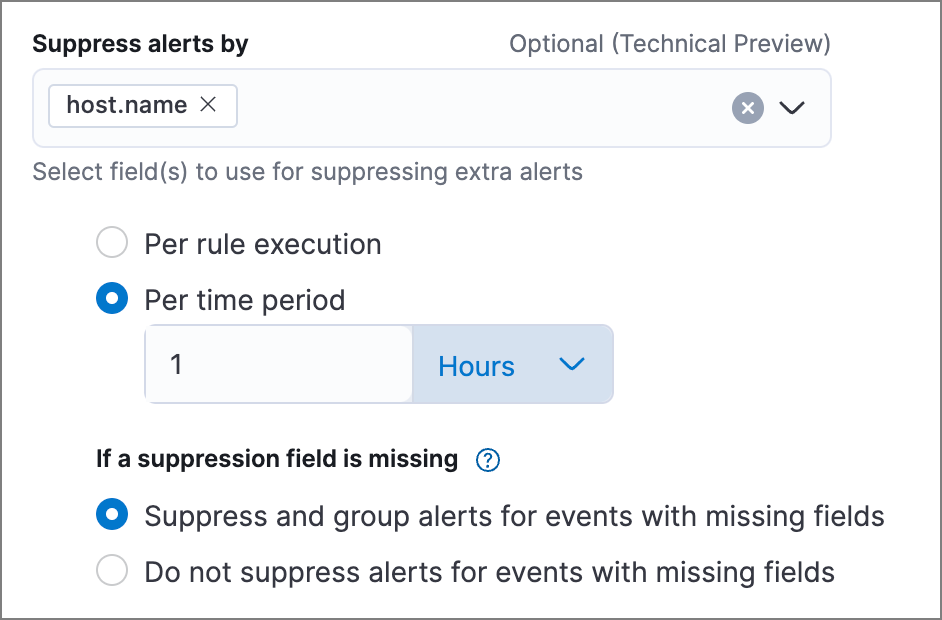
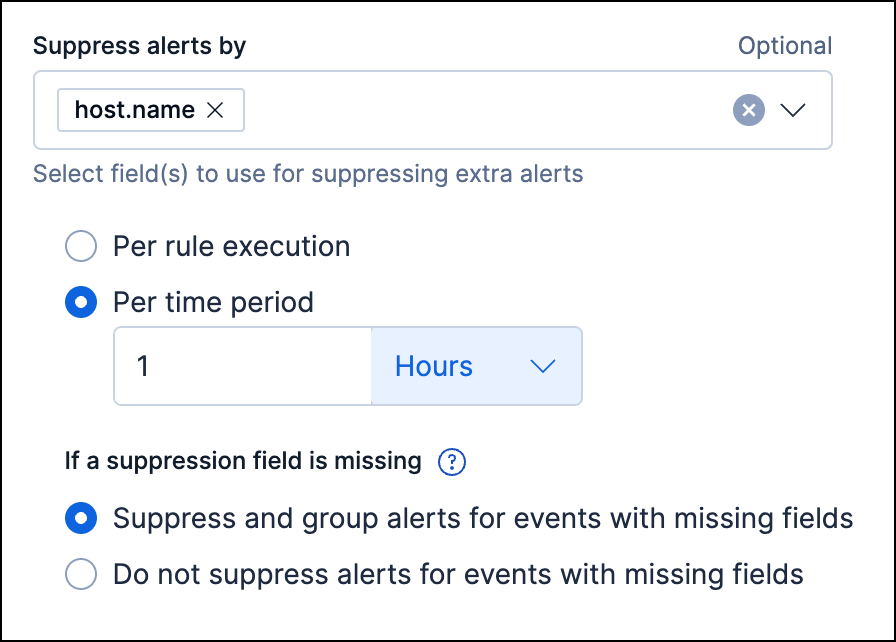
[Security][9.2 & Serverless]: New advanced setting that controls suppression window behavior (#2735)
NOTE TO SELF (09/10/25): Sync with @denar50 about feature flag when I'm
back.

Contributes to https://github.com/elastic/docs-content/issues/2526 by
documenting the new `securitySolution:suppressionBehaviorOnAlertClosure`
advanced setting.
[(preview)](https://docs-v3-preview.elastic.dev/elastic/docs-content/pull/2735/solutions/security/get-started/configure-advanced-settings#suppression-window-behavior)

Also made the following changes:
- Moved pre-reqs for using alert suppression to the section that has
instructions for using it. This placement seems more appropriate. Also
made light revisions to wordy steps.
([preview](https://docs-v3-preview.elastic.dev/elastic/docs-content/pull/2735/solutions/security/detect-and-alert/suppress-detection-alerts#security-alert-suppression-configure-alert-suppression))
- Moved that giant note about suppressing fields with multiple values to
a dedicated section with the goal of streamlining the instructions for
configuring suppression.
[(preview)](https://docs-v3-preview.elastic.dev/elastic/docs-content/pull/2735/solutions/security/detect-and-alert/suppress-detection-alerts#security-alert-suppression-fields-with-multiple-values)
- Added a new section that explained the impact of closing alerts that
were generated by alert suppression.
[(preview)](https://docs-v3-preview.elastic.dev/elastic/docs-content/pull/2735/solutions/security/detect-and-alert/suppress-detection-alerts#security-alert-suppression-impact-close-alerts)
[…]

diff --git a/solutions/security/detect-and-alert/suppress-detection-alerts.md b/solutions/security/detect-and-alert/suppress-detection-alerts.md
@@ -13,69 +13,55 @@ products:
 
 # Suppress detection alerts [security-alert-suppression]
 
+Alert suppression allows you to reduce the number of repeated or duplicate detection alerts created by [detection rules](/solutions/security/detect-and-alert/about-detection-rules.md). Normally, when a rule meets its criteria repeatedly, it creates multiple alerts, one for each time the rule’s criteria are met. When alert suppression is configured, alerts for duplicate events are not created. Instead, the qualifying events are grouped, and only one alert is created for each group. 
 
-::::{admonition} Requirements and notices
-* In {{stack}} alert suppression requires a [Platinum or higher subscription](https://www.elastic.co/pricing) or the appropriate [{{serverless-short}} project feature tier](../../../deploy-manage/deploy/elastic-cloud/project-settings.md).
-* {{ml-cap}} rules have [additional requirements](/solutions/security/advanced-entity-analytics/machine-learning-job-rule-requirements.md) for alert suppression.
-* This functionality is in technical preview for event correlation rules only and may be changed or removed in a future release. Elastic will work to fix any issues, but features in technical preview are not subject to the support SLA of official GA features.
-
-::::
-
-Alert suppression allows you to reduce the number of repeated or duplicate detection alerts created by these detection rule types:
-
-* [Custom query](/solutions/security/detect-and-alert/create-detection-rule.md#create-custom-rule)
-* [Threshold](/solutions/security/detect-and-alert/create-detection-rule.md#create-threshold-rule)
-* [Indicator match](/solutions/security/detect-and-alert/create-detection-rule.md#create-indicator-rule)
-* [Event correlation](/solutions/security/detect-and-alert/create-detection-rule.md#create-eql-rule)
-* [New terms](/solutions/security/detect-and-alert/create-detection-rule.md#create-new-terms-rule)
-* [{{esql}}](/solutions/security/detect-and-alert/create-detection-rule.md#create-esql-rule)
-* [{{ml-cap}}](/solutions/security/detect-and-alert/create-detection-rule.md#create-ml-rule)
-
-Normally, when a rule meets its criteria repeatedly, it creates multiple alerts, one for each time the rule’s criteria are met. When alert suppression is configured, duplicate qualifying events are grouped, and only one alert is created for each group. Depending on the rule type, you can configure alert suppression to create alerts each time the rule runs, or once within a specified time window. You can also specify multiple fields to group events by unique combinations of values.
+Depending on the rule type, you can configure alert suppression to create alerts each time the rule runs, or once within a specified time window. You can also specify multiple fields to group events by unique combinations of values.
 
 The {{security-app}} displays several indicators in the Alerts table and the alert details flyout when a detection alert is created with alert suppression enabled. You can view the original events associated with suppressed alerts by investigating the alert in Timeline.
 
-
 ## Configure alert suppression [security-alert-suppression-configure-alert-suppression]
 
-You can configure alert suppression when you create or edit a supported rule type. Refer to documentation for creating [custom query](/solutions/security/detect-and-alert/create-detection-rule.md#create-custom-rule), [threshold](/solutions/security/detect-and-alert/create-detection-rule.md#create-threshold-rule), [event correlation](/solutions/security/detect-and-alert/create-detection-rule.md#create-eql-rule), [new terms](/solutions/security/detect-and-alert/create-detection-rule.md#create-new-terms-rule), [{{esql}}](/solutions/security/detect-and-alert/create-detection-rule.md#create-esql-rule), or [{{ml}}](/solutions/security/detect-and-alert/create-detection-rule.md#create-ml-rule) rules for detailed instructions.
+::::{admonition} Requirements and notices
+* To use alert suppression in {{stack}} and {{serverless-short}}, you must have the appropriate [subscription](https://www.elastic.co/pricing). 
+* {{ml-cap}} rules have [additional requirements](/solutions/security/advanced-entity-analytics/machine-learning-job-rule-requirements.md) for alert suppression.
 
-1. When configuring the rule type (the **Define rule** step for a new rule, or the **Definition** tab for an existing rule), specify how you want to group events for alert suppression:
+::::
 
-    * **Custom query, indicator match, threshold, event correlation, new terms, {{ml}}, and {{esql}} rules:** In **Suppress alerts by**, enter 1-3 field names to group events by the fields' values.
-    * **Threshold rule:** In **Group by**, enter up to 3 field names to group events by the fields' values, or leave the setting empty to group all qualifying events together.
+You can configure alert suppression when [creating](/solutions/security/detect-and-alert/create-detection-rule.md) or editing a rule.  
 
-    ::::{note}
-    If you specify a field with multiple values, alerts with that field are handled as follows:
+1. When configuring the rule (the **Define rule** step for a new rule, or the **Definition** tab for an existing rule), specify how you want to group alerts for alert suppression:
 
-    * **Custom query or threshold rules:** Alerts are grouped by each unique value. For example, if you suppress alerts by `destination.ip` of `[127.0.0.1, 127.0.0.2, 127.0.0.3]`, alerts will be suppressed separately for each value of `127.0.0.1`, `127.0.0.2`, and `127.0.0.3`.
-    * **Indicator match, event correlation (non-sequence queries only), new terms, {{esql}}, or {{ml}} rules:** Alerts with the specified field name and identical array values are grouped together. For example, if you suppress alerts by `destination.ip` of `[127.0.0.1, 127.0.0.2, 127.0.0.3]`, alerts with the entire array are grouped and only one alert is created for the group.
-    * **Event correlation (sequence queries only) rules:** If the specified field contains an array of values, suppression only happens if the field’s values are an exact match and in the same order. For example, if you specify the field `myips` and one sequence alert has [1.1.1.1, 0.0.0.0] and another sequence alert has [1.1.1.1, 192.168.0.1], neither of those alerts will be suppressed, despite sharing an array element.
+    * **All rule types except the threshold rule:** In **Suppress alerts by**, enter 1 or more field names to group alerts by the fields' values. The maximum limit of fields that you can enter is as follows:
+       * {applies_to}`stack: ga 9.0.0, ga 9.1.0` Enter up to 3 fields.
+       * {applies_to}`stack: ga 9.2.0`: Enter up to 5 fields.
+
+    * **Threshold rule only:** In **Group by**, enter up to 3 field names to group events by the fields' values, or leave the setting empty to group all qualifying events together. 
+
+
+    ::::{tip}
+    
+    Refer to [Suppression for fields with an array of values](/solutions/security/detect-and-alert/suppress-detection-alerts.md#security-alert-suppression-fields-with-multiple-values) to learn how fields with multiple values are handled.
 
     ::::
 
-2. If available, select how often to create alerts for duplicate events:
 
-    ::::{note}
-    Both options are available for custom query, indicator match, event correlation, new terms, {{esql}}, and {{ml}} rules. Threshold rules only have the **Per time period** option.
-    ::::
-
+2. Choose how often to create alerts for qualifying events:
 
     * **Per rule execution**: Create an alert each time the rule runs and an event meets its criteria.
-    * **Per time period**: Create one alert for all qualifying events that occur within a specified time window, beginning from when an event first meets the rule criteria and creates the alert.
+    * **Per time period**: Create one alert for all qualifying events that occur within a specified time window, beginning from when an event first meets the rule criteria and creates the alert. This is the only option available when configuring alert suppression for threshold rules.
 
         For example, if a rule runs every 5 minutes but you don’t need alerts that frequently, you can set the suppression time period to a longer time, such as 1 hour. If the rule meets its criteria, it creates an alert at that time, and for the next hour, it’ll suppress any subsequent qualifying events.
 
         :::{image} /solutions/images/security-alert-suppression-options.png
         :alt: Alert suppression options
+        :width: 450px
         :::
 
 3. Under **If a suppression field is missing**, choose how to handle events with missing suppression fields (events in which one or more of the **Suppress alerts by** fields don’t exist):
 
     ::::{note}
-    These options are not available for threshold rules.
+    These options are available for all rule types except threshold rules.
     ::::
-
 
     * **Suppress and group alerts for events with missing fields**: Create one alert for each group of events with missing fields. Missing fields get a `null` value, which is used to group and suppress alerts.
     * **Do not suppress alerts for events with missing fields**: Create a separate alert for each matching event. This basically falls back to normal alert creation for events with missing suppression fields.
@@ -89,13 +75,22 @@ You can configure alert suppression when you create or edit a supported rule typ
 ::::
 
 
+### Suppression for fields with an array of values [security-alert-suppression-fields-with-multiple-values]
+
+When specifying fields to suppress alerts by, you can select fields that have multiple values. When alerts for those fields are generated, they're handled as follows:
+
+* **Custom query or threshold rules:** Alerts are grouped by each unique value and an alert is created for each group. For example, if you suppress alerts by `destination.ip` of `[127.0.0.1, 127.0.0.2, 127.0.0.3]`, alerts are grouped separately for each value of `127.0.0.1`, `127.0.0.2`, and `127.0.0.3` and an alert is created for each group.
+
+* **Indicator match, event correlation (non-sequence queries only), new terms, {{esql}}, or {{ml}} rules:** Alerts with identical array values are grouped together. For example, if you suppress alerts by `destination.ip` of `[127.0.0.1, 127.0.0.2, 127.0.0.3]`, alerts with the entire array are grouped and only one alert is created for the group.
+           
+* **Event correlation (sequence queries only) rules:** Alerts that are an exact match are grouped. To be an exact match, array values must be identical and in the same order. For example, if you specify the field `myips` and one sequence alert has `[1.1.1.1, 0.0.0.0]` and another sequence alert has `[1.1.1.1, 192.168.0.1]`, neither of those alerts is suppressed, despite sharing an array element.
 
 ## Confirm suppressed alerts [security-alert-suppression-confirm-suppressed-alerts]
 
-The {{security-app}} displays several indicators of whether a detection alert was created with alert suppression enabled, and how many duplicate alerts were suppressed.
+The {{security-app}} displays several indicators of whether a detection alert was created with alert suppression enabled, and how many qualifying alerts were suppressed.
 
 ::::{important}
-After an alert is moved to the `Closed` status, it will no longer suppress new alerts. To prevent interruptions or unexpected changes in suppression, avoid closing alerts before the suppression interval ends.
+Changing an alert's status to `Closed` can affect suppression. Refer to [Impact of closing suppressed alerts](/solutions/security/detect-and-alert/suppress-detection-alerts.md#security-alert-suppression-impact-close-alerts) to learn more.
 ::::
 
 
@@ -104,6 +99,7 @@ After an alert is moved to the `Closed` status, it will no longer suppress new a
     :::{image} /solutions/images/security-suppressed-alerts-table.png
     :alt: Suppressed alerts icon and tooltip in Alerts table
     :screenshot:
+    :width: 650px
     :::
 
 * **Alerts** table — Column for suppressed alerts count. Select **Fields** to open the fields browser, then add `kibana.alert.suppression.docs_count` to the table.
@@ -111,6 +107,7 @@ After an alert is moved to the `Closed` status, it will no longer suppress new a
     :::{image} /solutions/images/security-suppressed-alerts-table-column.png
     :alt: Suppressed alerts count field column in Alerts table
     :screenshot:
+    :width: 750px
     :::
 
 * Alert details flyout — **Insights** → **Correlations** section:
@@ -118,8 +115,8 @@ After an alert is moved to the `Closed` status, it will no longer suppress new a
     :::{image} /solutions/images/security-suppressed-alerts-details.png
     :alt: Suppressed alerts in the Correlations section within the alert details flyout
     :screenshot:
+    :width: 450px
     :::
-
 
 
 ## Investigate events for suppressed alerts [security-alert-suppression-investigate-events-for-suppressed-alerts]
@@ -130,12 +127,27 @@ With alert suppression, detection alerts aren’t created for the grouped source
 
     :::{image} /solutions/images/security-timeline-button.png
     :alt: Investigate in timeline button
-    :width: 350px
+    :width: 250px
     :screenshot:
     :::
 
 * Alert details flyout — Select **Take action** → **Investigate in timeline**.
 
+
+## Impact of closing suppressed alerts [security-alert-suppression-impact-close-alerts]
+
+By default, if you close a suppressed alert while a suppression window is still active, suppression resets. Subsequently, any new qualifying alerts are suppressed and added to a new alert for suppression.
+
+For example, say you set the suppression time period to 5 minutes and specify to group alerts by the `host.name` field. The first time an event meets the rule's criteria, an alert is created. Over the next 5 minutes, any subsequent qualifying alerts are suppressed and grouped by unique `host.name` value. If you close that first alert before the active suppression window ends (the 5 minute suppression time period), alert suppression stops and restarts when the next qualifying alert meets the suppression criteria. 
+
+
+:::{image} /solutions/images/security-alert-suppression-close-alert-example.png
+:alt: Example of suppression configuration for a rule
+:screenshot:
+:width: 450px
+:::
+
+{applies_to}`stack: ga 9.2` You can change the default behavior and continue suppressing alerts until the end of suppression window after you close an investigated alert. To do this, change the `securitySolution:suppressionBehaviorOnAlertClosure` [advanced setting](/solutions/security/get-started/configure-advanced-settings.md#suppression-window-behavior) to **Continue until suppression window ends**.
 
 ## Alert suppression limit by rule type [security-alert-suppression-alert-suppression-limit-by-rule-type]
 

diff --git a/solutions/security/get-started/configure-advanced-settings.md b/solutions/security/get-started/configure-advanced-settings.md
@@ -204,6 +204,13 @@ Each time a detection rule runs using a remote cross-cluster search (CCS) index 
 
 If you’ve ensured that your detection rules have the required privileges across your remote indices, you can use the `securitySolution:enableCcsWarning` setting to disable this warning and reduce noise.
 
+## Configure alert suppression window behavior [suppression-window-behavior]
+
+```yaml {applies_to}
+stack: ga 9.2
+```
+
+To control whether alert suppression continues after you close a supressed alert during an [active suppression window](/solutions/security/detect-and-alert/suppress-detection-alerts.md#security-alert-suppression-impact-close-alerts), configure the `securitySolution:suppressionBehaviorOnAlertClosure` advanced setting. This setting lets you choose whether suppression continues or restarts when the next qualifying alert meets the suppression criteria. The default selection is **Restart suppression**.
 
 ## Show/hide related integrations in Rules page tables [show-related-integrations]
 
